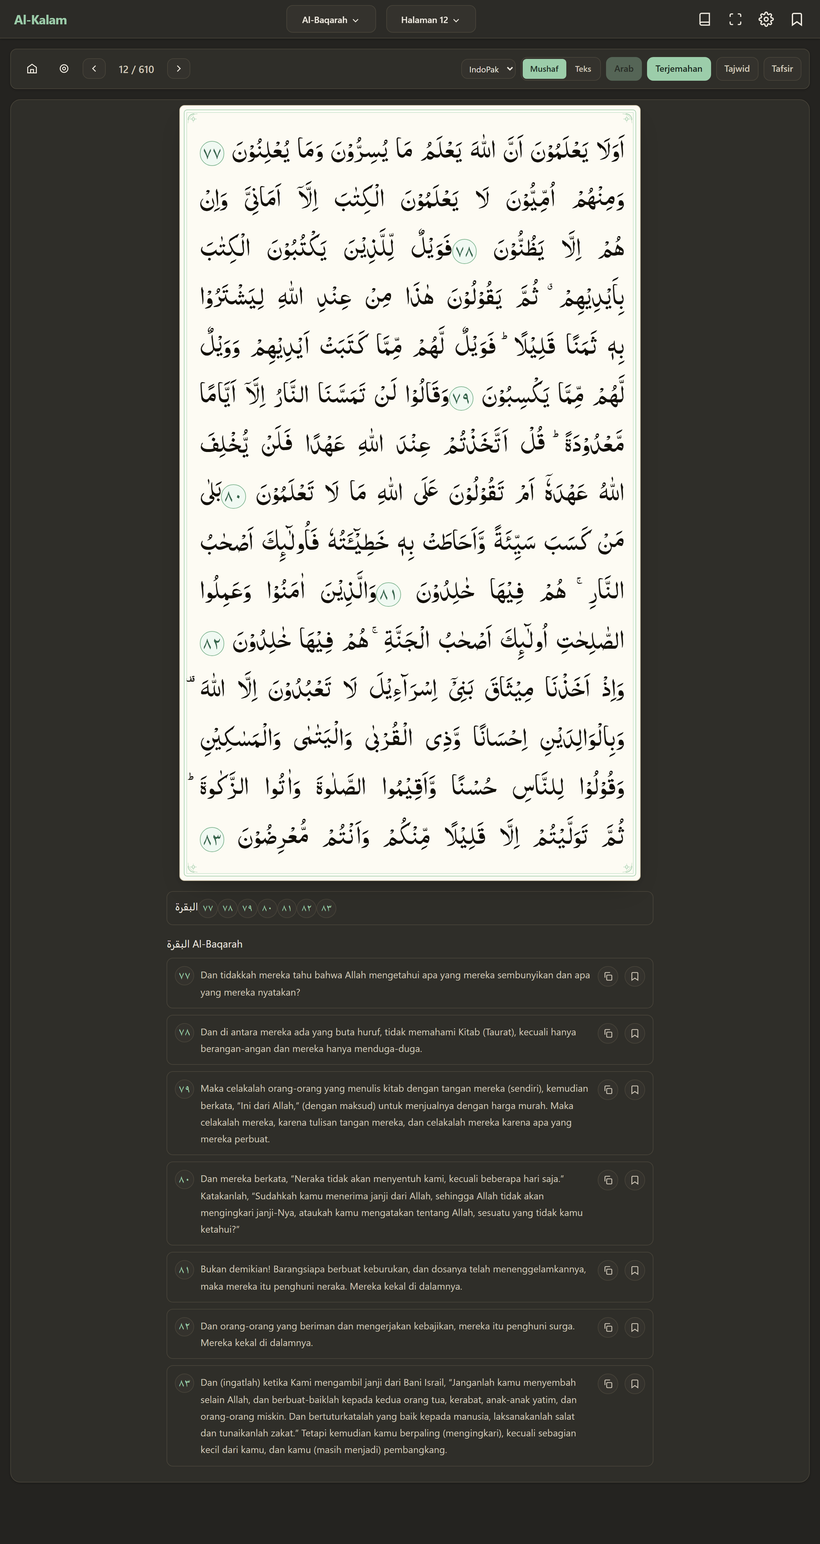
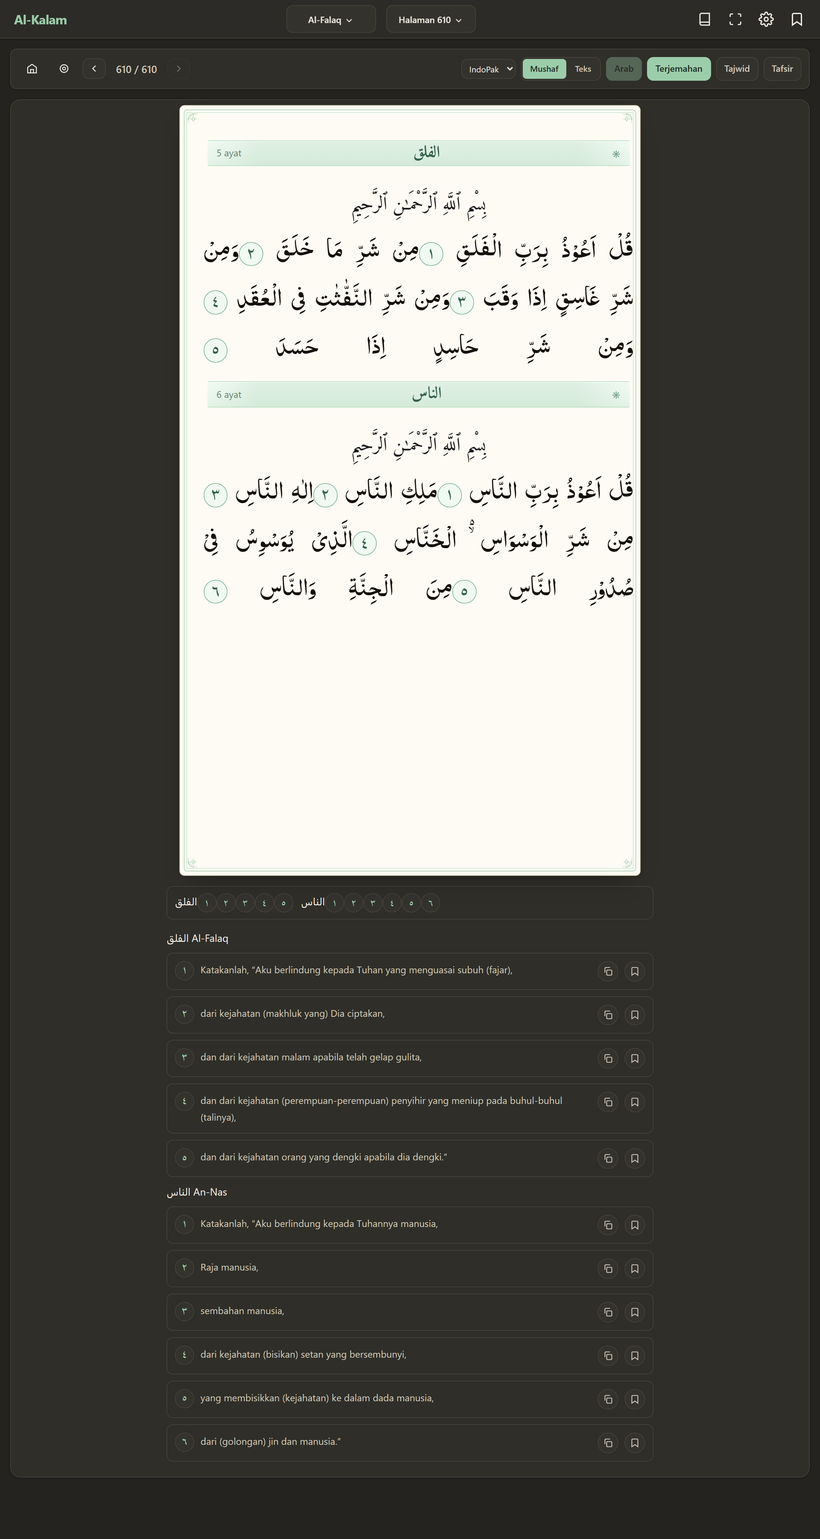
Halaman diskalakan utuh + semua baris ayat rata penuh
- Lembar kini dirender pada lebar desain 720px di dalam .scan-sheet-box lalu
  diskalakan (transform: scale) selebar layar; tinggi box menyesuaikan. Halaman
  tidak mungkin lagi terpotong berapa pun lebar jendela, dan lebar halaman
  konsisten di semua halaman (tidak ada lagi 'sebagian terpotong')
- Semua baris ayat diratakan penuh (text-align-last: justify); aturan
  'halaman renggang ditengahkan' dihapus sehingga akhir setiap baris sama
- Diuji halaman 3, 100, 300, 610 pada lebar 1280/900/600/400 px: lembar selalu
  di dalam layar (17..vw-17), skala 1 / 0,786 / 0,508, akhir baris tunggal
- Regresi lolos: Madani 15 baris, tajwid v4 (legenda 7), mode teks, balik ke mushaf

diff --git a/js/app.js b/js/app.js
@@ -147,7 +147,7 @@
   }
   
   // ── Versi build (tanda bahwa browser memakai bundel terbaru) ────────
-  const BUILD = '2026-11-22-no-clip';
+  const BUILD = '2026-11-22-stage-fit';
 
   function showBuildTag() {
     const el = document.getElementById('buildTag');
@@ -883,7 +883,7 @@
     // ── baris halaman ──
     const rows = buildRows(layout, page, chapters);
     const filledLines = rows ? rows.filter(r => r.kind === 'words').length : 0;
-    const sparsePage = filledLines <= 9;        // mis. halaman 1 & 2: jangan direntangkan
+    const sparsePage = false;                   // semua baris rata penuh (standar mushaf)
     let htm = '';
     if (!rows) {
       htm = `<div class="mline mline-empty">Layout halaman tidak tersedia</div>`;
@@ -937,12 +937,12 @@
     const style = fontFamily ? ` style="font-family:'${fontFamily}', serif"` : '';
     const mushafClass = mushafKey() === 'indopak' ? ' mushaf-indopak' : '';
     let html = `<div class="scan-page" data-page="${page}">`;
-    html += `<div class="scan-sheet${mushafClass}">`;
+    html += `<div class="scan-sheet-box"><div class="scan-sheet${mushafClass}">`;
     html += `<div class="page-frame" aria-hidden="true">` +
             `<span class="page-corner tl"></span><span class="page-corner tr"></span>` +
             `<span class="page-corner bl"></span><span class="page-corner br"></span>` +
             `</div>`;
-    html += `<div class="mushaf-page-lines"${style}>${htm}</div></div>`;
+    html += `<div class="mushaf-page-lines"${style}>${htm}</div></div></div>`;
 
     // legenda warna tajwid (tampil saat tajwid aktif)
     if (state.showTajwid) {
@@ -1077,12 +1077,15 @@
    */
   function applyPageScale(sheet) {
     if (!sheet || !sheet.isConnected) return;
+    const stage = sheet.parentElement;
+    const DESIGN_W = 720;
     const pageEm = mushafKey() === 'indopak' ? 17.69 : 20.6;
-    sheet.style.setProperty('--msize', `${sheet.clientWidth / pageEm}px`);
-    const box = sheet.querySelector('.mushaf-page-lines');
+    sheet.style.setProperty('--design-w', `${DESIGN_W}px`);
+    sheet.style.setProperty('--msize', `${DESIGN_W / pageEm}px`);
+    const pageLines = sheet.querySelector('.mushaf-page-lines');
     const sheetRect0 = sheet.getBoundingClientRect();
     for (let i = 0; i < 4; i++) {
-      const avail = box.clientWidth || 1;
+      const avail = pageLines.clientWidth || 1;
       let worst = 0;
       for (const el of sheet.querySelectorAll('.mline')) {
         worst = Math.max(worst, el.scrollWidth - el.clientWidth);
@@ -1096,6 +1099,11 @@
       const fs = parseFloat(getComputedStyle(sheet).getPropertyValue('--msize')) || 26;
       sheet.style.setProperty('--msize', `${Math.max(10, fs * (avail / (avail + worst)) * 0.994)}px`);
     }
+
+    // skala utuh: halaman selebar layar (maks 720px), tinggi box ikut menyesuaikan
+    const scale = Math.min(1, (stage ? stage.clientWidth : DESIGN_W) / DESIGN_W) || 1;
+    sheet.style.setProperty('--page-scale', String(scale));
+    if (stage) stage.style.height = `${Math.round(sheet.offsetHeight * scale)}px`;
   }
 
   async function renderPage(page) {

diff --git a/css/style.css b/css/style.css
@@ -260,6 +260,22 @@ svg { display: inline-block; vertical-align: middle; }
 /* ═══════════════════════════════════════════════════════════════════════
    Halaman mushaf: render layout + font halaman (QCF)
 ════════════════════════════════════════════════════════════════════════ */
+/* bidang halaman: lebar tetap 720px lalu diskalakan utuh ke lebar layar,
+   sehingga halaman tidak pernah terpotong berapa pun lebar jendela */
+.scan-sheet-box {
+  width: 100%;
+  position: relative;
+  display: flex;
+  justify-content: center;
+  overflow: visible;
+}
+.scan-sheet-box > .scan-sheet {
+  width: var(--design-w, 720px);
+  flex: 0 0 auto;
+  transform: scale(var(--page-scale, 1));
+  transform-origin: top center;
+}
+
 .scan-sheet {
   /* QUL: teks 19,1em lebar × 15 baris × 1,85 line-height.
      Di sini ditambah 0,75em padding tiap sisi untuk bingkai ornamen. */
@@ -327,11 +343,7 @@ svg { display: inline-block; vertical-align: middle; }
   word-spacing: -.25em;       /* QUL memakai jarak kata negatif untuk mushaf v2 */
 }
 /* halaman renggang (mis. halaman 1 & 2): rata tengah, tidak direntangkan */
-.mline.mline-center {
-  text-align: center;
-  text-align-last: center;
-  word-spacing: 0;
-}
+
 .mline.mline-short,
 .mline.mline-head,
 .mline.mline-basmalah,

diff --git a/sw.js b/sw.js
@@ -2,9 +2,9 @@
  * Al-Kalam Digital — Service Worker
  * Offline-first untuk halaman mushaf & data JSON
  */
-const CACHE_NAME = 'alkalam-v17';
+const CACHE_NAME = 'alkalam-v18';
 const DATA_CACHE = 'alkalam-data-v3';
-const PAGE_CACHE = 'alkalam-pages-v17';
+const PAGE_CACHE = 'alkalam-pages-v18';
 const IMG_CACHE = 'alkalam-page-images-v2';
 
 // File yang di-cache saat install (app shell)
